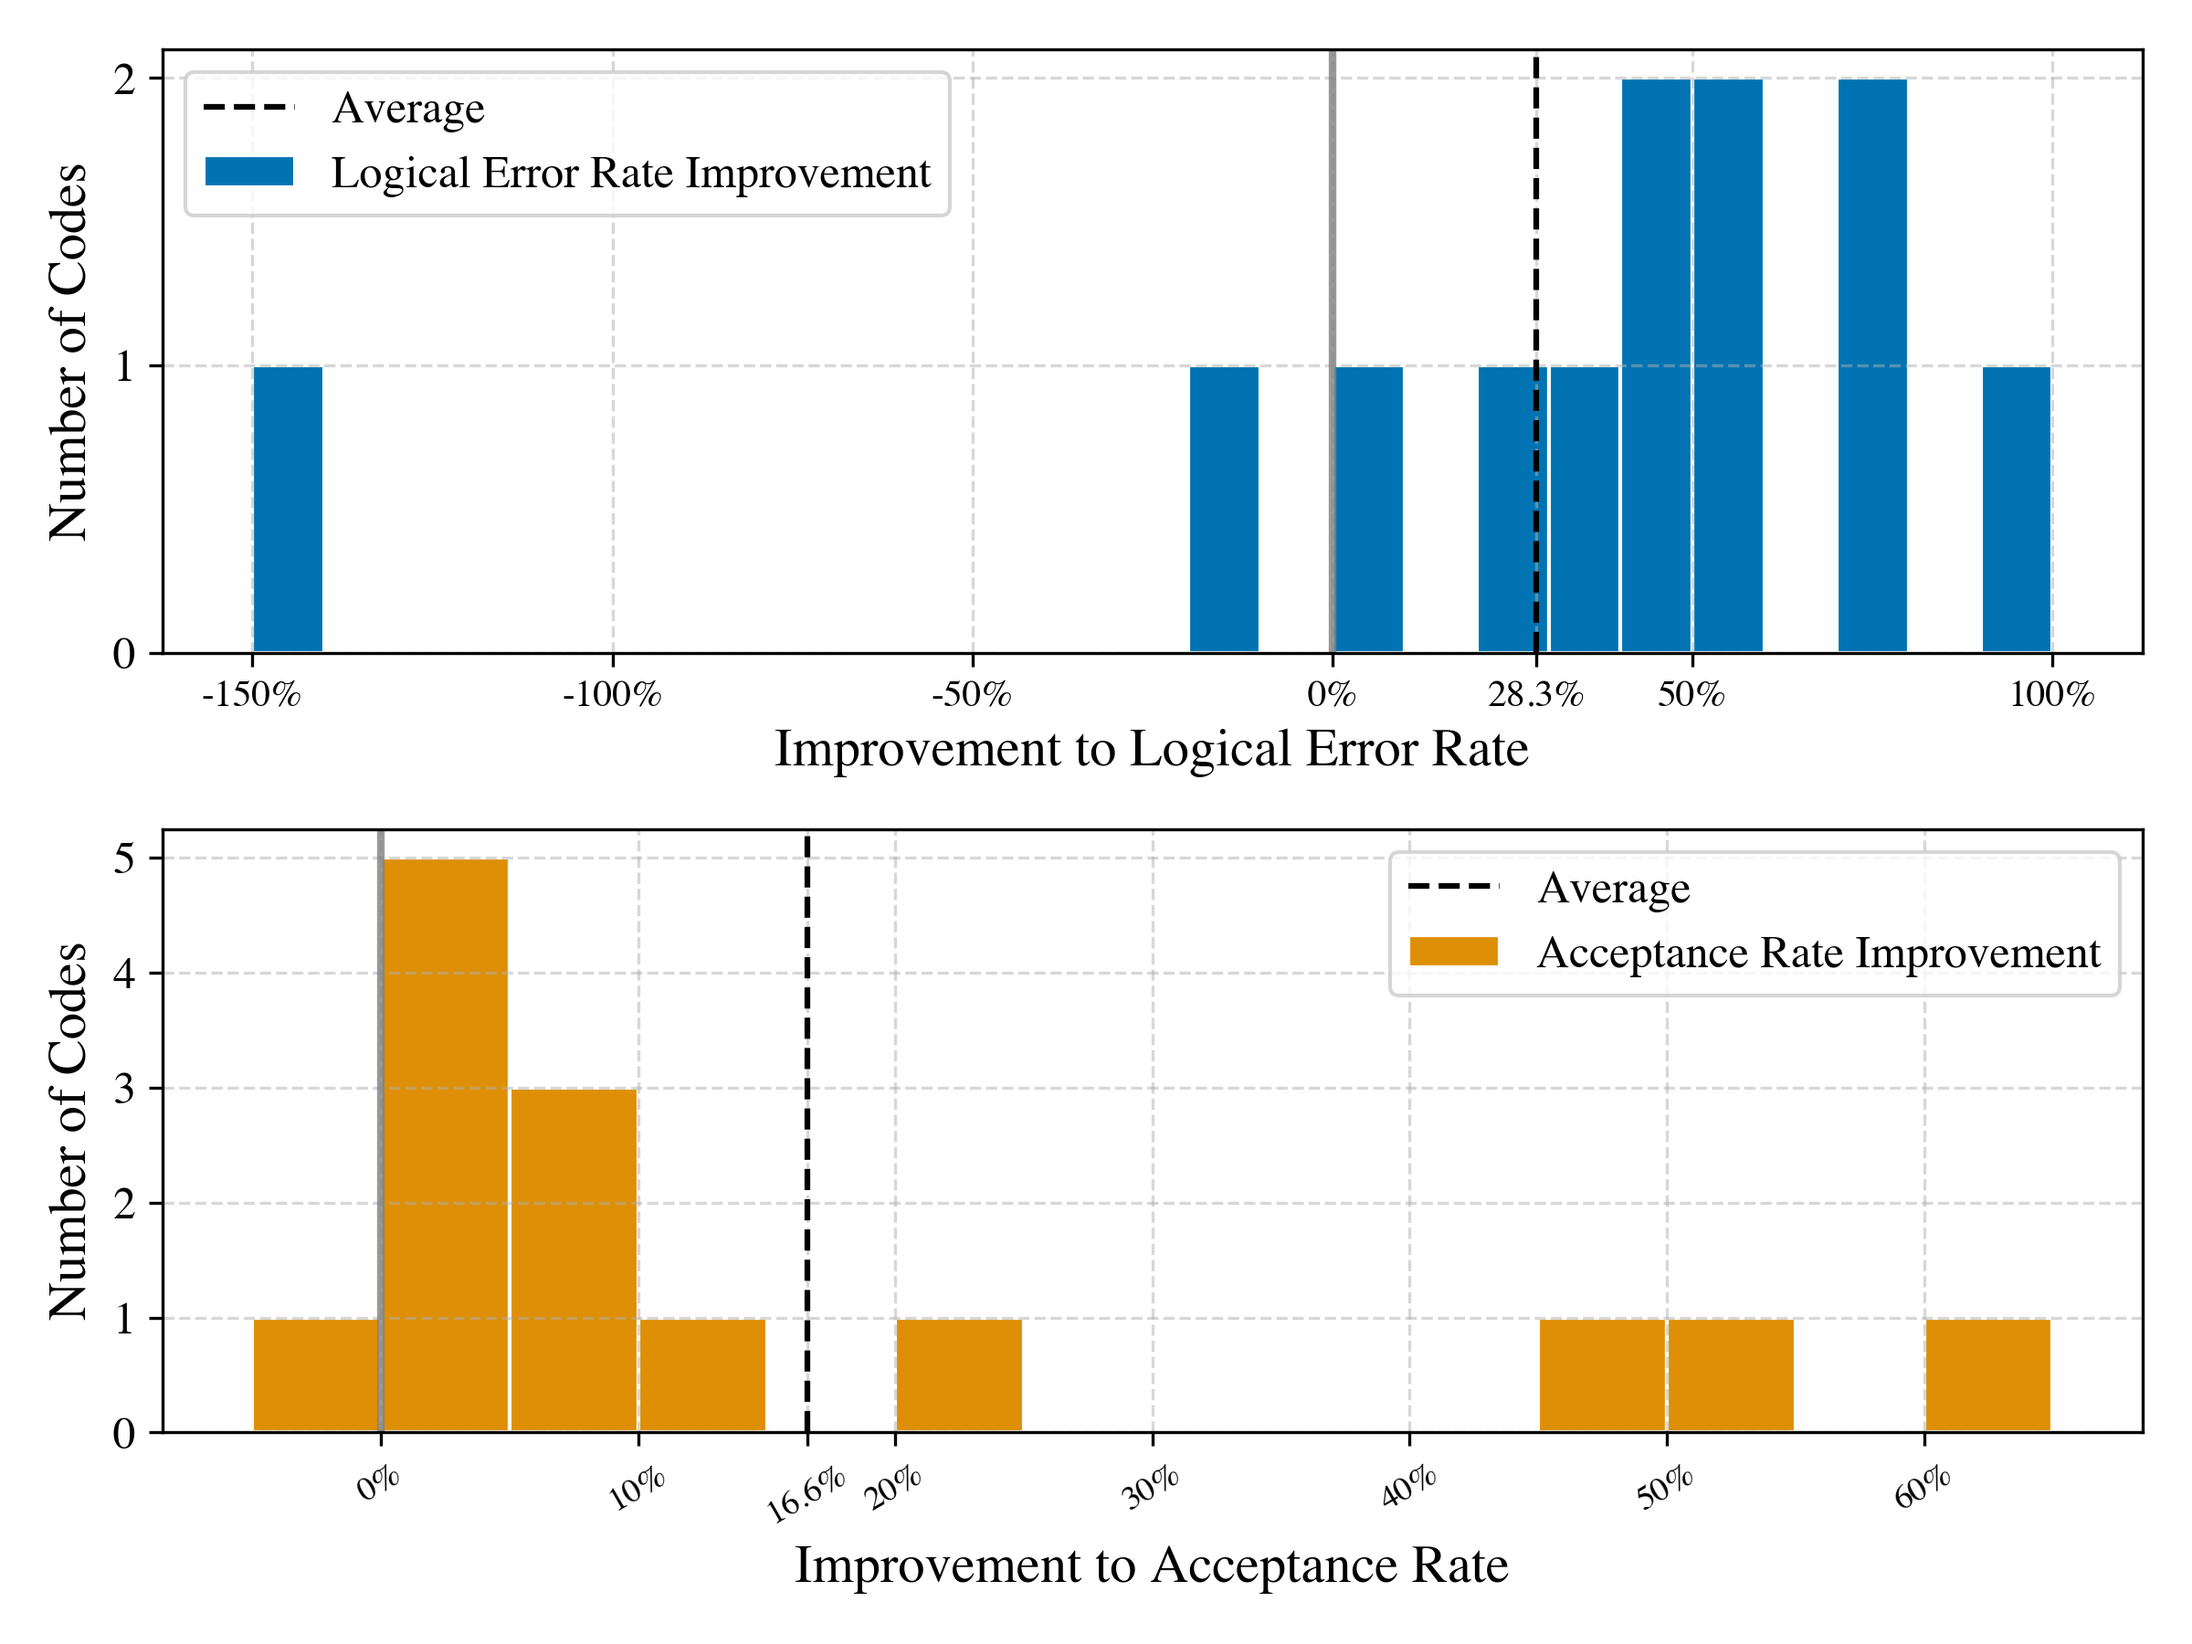
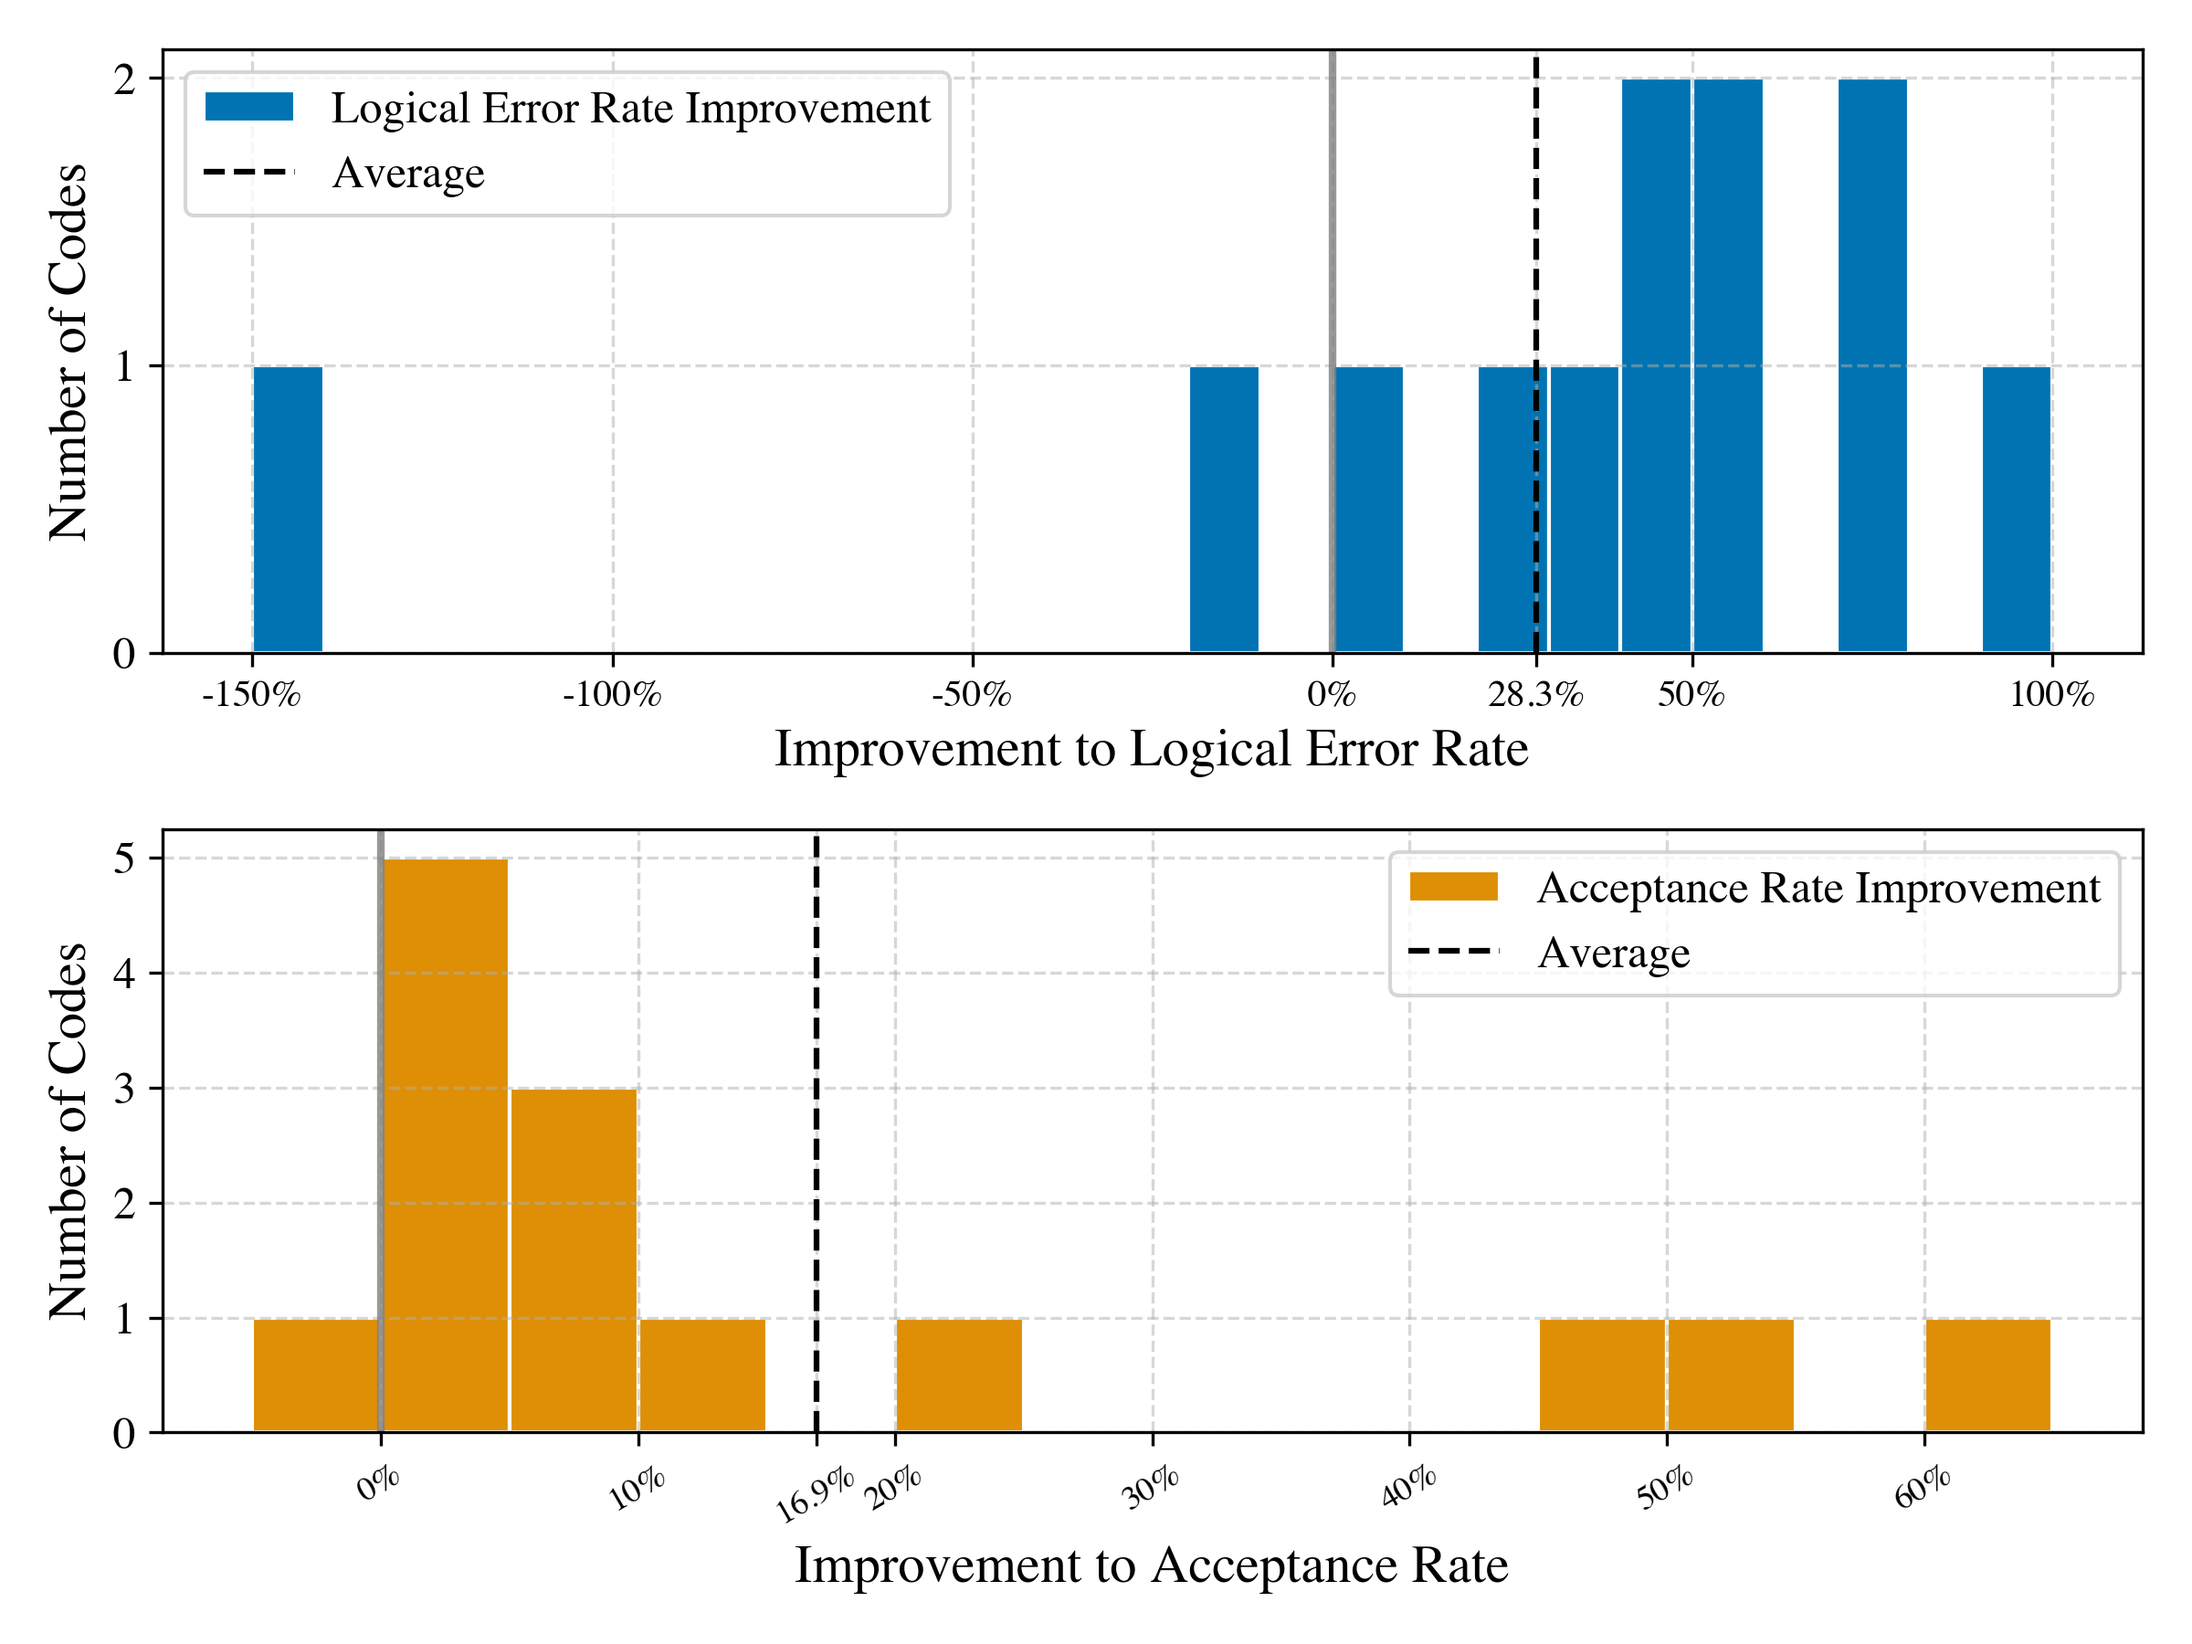
List average second in each legend

diff --git a/spidercss/visualize.py b/spidercss/visualize.py
@@ -103,17 +103,17 @@ def plot_independent_histograms(codes, best_stats, fao_stats, colors, plots_dir)
     ler_bins = np.arange(ler_b_min, ler_b_max + ler_step, ler_step)
 
     ler_counts, _ = np.histogram(ler_improvements, bins=ler_bins)
-    ax1.bar(ler_bins[:-1], ler_counts, width=np.diff(ler_bins), align='edge', 
-            color=colors[0], edgecolor='white', label='Logical Error Rate Improvement')
+    bar1 = ax1.bar(ler_bins[:-1], ler_counts, width=np.diff(ler_bins), align='edge', 
+                   color=colors[0], edgecolor='white', label='Logical Error Rate Improvement')
             
     ler_mean = np.mean(ler_improvements)
-    ax1.axvline(ler_mean, color='black', linestyle='--', linewidth=1.5, label='Average')
+    line1 = ax1.axvline(ler_mean, color='black', linestyle='--', linewidth=1.5, label='Average')
     
     ax1.set_ylabel("Number of Codes")
     ax1.set_xlabel("Improvement to Logical Error Rate")
     ax1.grid(True, linestyle='--', alpha=0.5)
     ax1.axvline(0, color='gray', linewidth=2, alpha=0.8)
-    ax1.legend()
+    ax1.legend(handles=[bar1, line1])
     
     # Add tick for LER mean
     fig.canvas.draw()
@@ -144,17 +144,17 @@ def plot_independent_histograms(codes, best_stats, fao_stats, colors, plots_dir)
     ar_bins = np.arange(ar_b_min, ar_b_max + ar_step, ar_step)
     
     ar_counts, _ = np.histogram(ar_improvements, bins=ar_bins)
-    ax2.bar(ar_bins[:-1], ar_counts, width=np.diff(ar_bins), align='edge', 
-            color=colors[1], edgecolor='white', label='Acceptance Rate Improvement')
+    bar2 = ax2.bar(ar_bins[:-1], ar_counts, width=np.diff(ar_bins), align='edge', 
+                   color=colors[1], edgecolor='white', label='Acceptance Rate Improvement')
             
     ar_mean = np.mean(ar_improvements)
-    ax2.axvline(ar_mean, color='black', linestyle='--', linewidth=1.5, label='Average')
+    line2 = ax2.axvline(ar_mean, color='black', linestyle='--', linewidth=1.5, label='Average')
     
     ax2.set_ylabel("Number of Codes")
     ax2.set_xlabel("Improvement to Acceptance Rate")
     ax2.grid(True, linestyle='--', alpha=0.5)
     ax2.axvline(0, color='gray', linewidth=2, alpha=0.8)
-    ax2.legend()
+    ax2.legend(handles=[bar2, line2])
     
     # Add tick for AR mean
     fig.canvas.draw()
